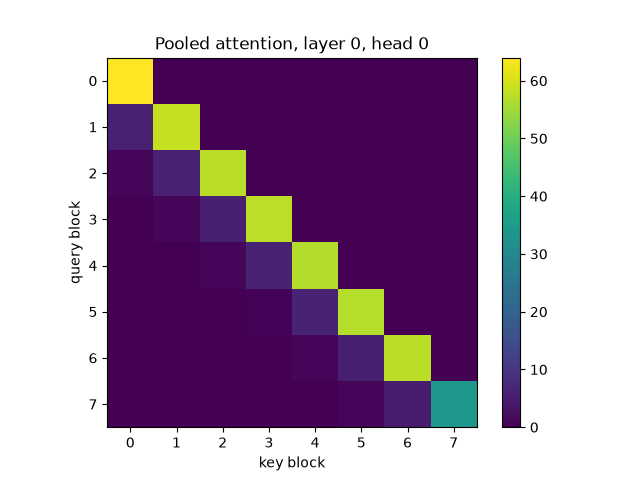
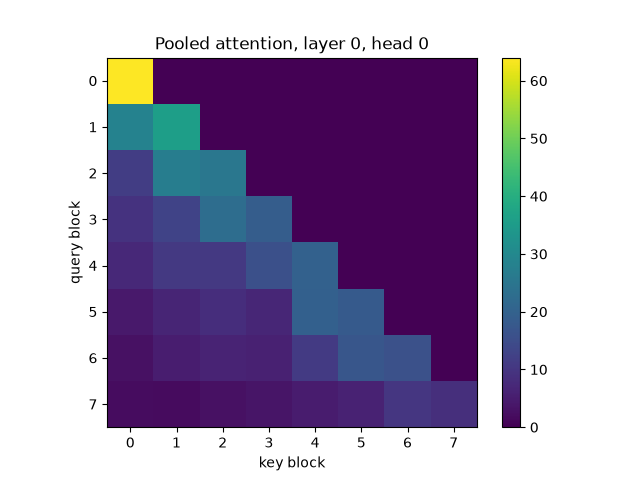
Update model references to Qwen/Qwen2.5-Coder-1.5B-Instruct and add killswitch0.py script

Changed region(s): [[0.1562, 0.2188, 0.75, 0.9062]]

diff --git a/scripts/killSwitch0.py b/scripts/killSwitch0.py
@@ -1,0 +1,144 @@
+import os, sys, json, argparse, glob
+sys.path.append(os.path.dirname(os.path.dirname(os.path.abspath(__file__))))
+
+from dotenv import load_dotenv
+import vllm
+from vllm import LLM, SamplingParams
+from transformers import AutoTokenizer
+
+from eval.harness import run_needle_test
+from eval.score import score_retrival
+
+load_dotenv()  # load HF_TOKEN (and friends) from .env into os.environ
+HF_TOKEN = os.environ.get("HF_TOKEN")
+
+# config
+MODEL = "Qwen/Qwen2.5-Coder-1.5B-Instruct"
+ORIG_MAX_POS = 32768          # Qwen2.5 native context 
+FACTOR = 4.0                  # YaRN factor  -> 4x
+ROPE_THETA = 1000000          # Qwen2.5-Coder rope_theta 
+MAX_MODEL_LEN = int(ORIG_MAX_POS * FACTOR)   # 131072
+
+LENGTHS = [32000, 64000, 128000]             # "32K / 64K / 128K"
+DEPTHS  = [0.0, 0.25, 0.5, 0.75, 1.0]                                                                                                                   
+REPO_ROOT = os.path.dirname(os.path.dirname(os.path.abspath(__file__)))
+
+# Repo-QA items: facts whose answer lives in the repo source.
+QA_ITEMS = [
+    {"question": "What is the value of PAD_VALUE in interfaces/validator.py?", "expected": "PAD_VALUE"},
+    {"question": "What is the value of K in interfaces/validator.py?", "expected": "4"}
+]
+
+def build_yarn_overrides():
+    """
+    YaRN override. Current vLLM uses `rope_parameters`; older builds use
+    `rope_scaling`. Detect and pick the right key so max_model_len is accepted.
+    """ 
+    rope = {
+        "rope_type": "yarn",
+        "factor": FACTOR,
+        "original_max_position_embeddings": ORIG_MAX_POS,
+        "rope_theta": ROPE_THETA,
+    }
+    ver = tuple(int(x) for x in vllm.__version__.split("."))
+    key = "rope_parameters" if ver >= (0, 11) else "rope_scaling"
+    print (f"vLLM version {vllm.__version__} -> using key {key} for YaRN override")
+    return {key: rope, "max_model_len": MAX_MODEL_LEN}
+
+def build_llm(tp):
+    if tp == 1:
+        print("[ks0] WARNING: tp=1. 126k bucket needs ~114GB KV. Use H200 or --tp 2 for the 128k run.")
+    return LLM(model=MODEL,
+               hf_overrides=build_yarn_overrides(),
+               max_model_len=MAX_MODEL_LEN,
+               tensor_parallel_size=tp,
+               gpu_memory_utilization=0.9,
+               dtype="auto",
+               hf_token=HF_TOKEN,
+               # enfroce_egar=True, # unncomment if CUDA-graph capture OOMs at 128k
+    )
+
+def make_generate(llm):
+    """ wrap vLLM chat() to return just the text, for run_needle_test() """
+    def generate(prompt, max_tokens=64):
+        params = SamplingParams(temperature=0.0, max_tokens=max_tokens)
+        messages = [{"role": "user", "content": prompt}]
+        out = llm.chat([messages], sampling_params=params)
+        return out[0].outputs[0].text
+    return generate
+
+def run_needles(generate, tokenizer):
+    results = []
+    for target in LENGTHS:
+        for depth in DEPTHS:
+            r = run_needle_test(generate, tokenizer, target_tokens=target, depth=depth)
+            results.append(r)
+            print(f"Needle test: target={target:>7}, depth={depth:<4}"
+                  f"exact={r['exact']} fuzzy={r['fuzzy']:.2f} total={r['total']}")
+    return results
+
+def build_repo_context(tokenizer, target_tokens):
+    """ Concatinate repo source files into a single prompt, up to target_tokens. """
+    parts = []
+    for path in sorted(glob.glob(os.path.join(REPO_ROOT, "**/*.py"), recursive=True)):
+        if ".venv" in path:
+            continue
+        rel = os.path.relpath(path, REPO_ROOT)
+        with open(path, "r", encoding="utf-8", errors="ignore") as f:
+            parts.append(f"# FILE: {rel}\n{f.read()}\n")
+    
+    ids = tokenizer("\n".join(parts))["input_ids"][:target_tokens]
+    return tokenizer.decode(ids)
+
+def run_repo_qa(generate, tokenizer):
+    results = []
+    for target in LENGTHS:
+        context = build_repo_context(tokenizer, target)
+        for item in QA_ITEMS:
+            prompt = (f"{context}\n\nUsing ONLY the repository above, answer.\n"                     
+                       f"Question: {item['question']}\nAnswer:")
+            answer = generate(prompt, max_tokens=64)
+            score = score_retrival(answer, item["expected"])
+            results.append({
+                "target_tokens": target,
+                "question": item["question"],
+                "expected": item["expected"],
+                "retrieved": score["exact"],
+                "fuzzy": score["fuzzy"],
+                "answer": answer
+            })
+            print(f"[repo-qa] {target:>7} retrieved={score['exact']} "                               
+                f":: {item['question'][:50]}")
+    return results
+
+def main():
+    ap = argparse.ArgumentParser()
+    ap.add_argument("--tp", type=int, default=int(os.environ.get("KS0_TP", "1")),                    
+                      help="tensor_parallel_size (use 2 for 128K on 2xA100)")                          
+    ap.add_argument("--out", default="ks0_results.json")                                             
+    args = ap.parse_args()
+
+    tokenizer = AutoTokenizer.from_pretrained(MODEL, token=HF_TOKEN)
+    llm = build_llm(args.tp)
+    generate = make_generate(llm)
+
+    needle_results = run_needles(generate, tokenizer)
+    repo_qa_results = run_repo_qa(generate, tokenizer)
+
+    payload = {
+        "model": MODEL,
+        "yarn": {
+            "factor": FACTOR,
+            "original_max_position_embeddings": ORIG_MAX_POS,
+            "max_model_len": MAX_MODEL_LEN,
+        },
+        "needle": needle_results,
+        "repo_qa": repo_qa_results
+    }
+    with open(args.out, "w", encoding="utf-8") as f:
+        json.dump(payload, f, indent=2)
+    print(f"[ks0] wrote {args.out} "                                                                 
+            f"({len(needle_results)} needle + {len(repo_qa_results)} repo-qa rows)")
+
+if __name__ == "__main__":
+    main()

diff --git a/scripts/run_needle.py b/scripts/run_needle.py
@@ -8,7 +8,7 @@ from eval.harness import run_needle_test
 load_dotenv()  # load HF_TOKEN (and friends) from .env into os.environ
 hf_token = os.environ.get("HF_TOKEN")
 
-name = "Qwen/Qwen2.5-Coder-0.5B-Instruct"
+name = "Qwen/Qwen2.5-Coder-1.5B-Instruct"
 tok = AutoTokenizer.from_pretrained(name, token=hf_token)
 model = AutoModelForCausalLM.from_pretrained(
     name, torch_dtype="auto", device_map="auto", token=hf_token,

diff --git a/scripts/run_prototype.py b/scripts/run_prototype.py
@@ -7,7 +7,7 @@ from teacher.pool import pool_attention, rollup
 from teacher.validate import check_causal, check_causal
 import matplotlib.pyplot as plt
 
-name = "Qwen/Qwen2.5-Coder-0.5B-Instruct"
+name = "Qwen/Qwen2.5-Coder-1.5B-Instruct"
 tok = AutoTokenizer.from_pretrained(name)
 model = AutoModelForCausalLM.from_pretrained(
     name, torch_dtype="auto", device_map="auto", attn_implementation="eager",
